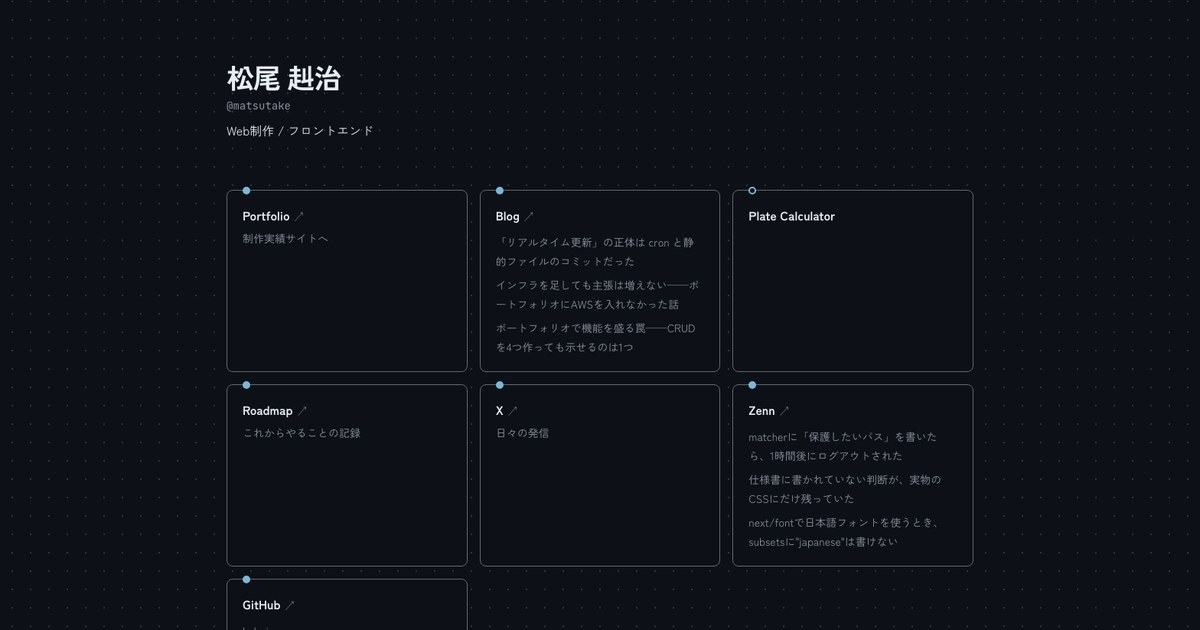
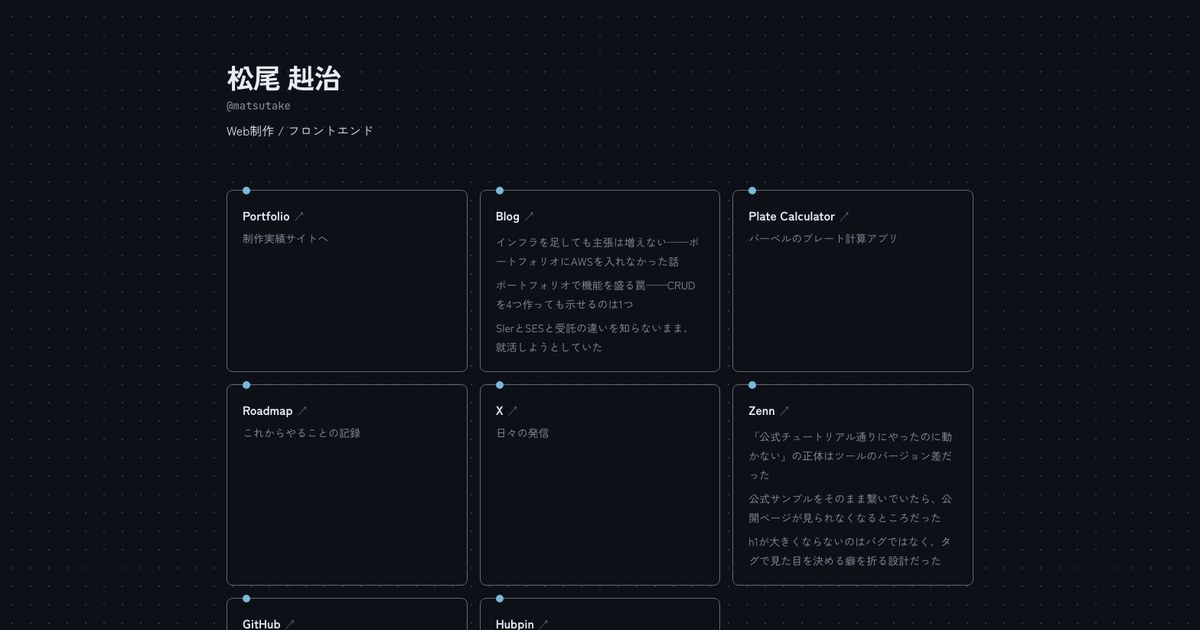
fix(hubpin): 数値を現在値に直し、ヒーローと OGP を8枚版に差し替え
- 読み込むファイル数 28→41、フォント 187kB→290kB（v0.5 の値だった）
- 機能を足したぶん増えていること、削るのは課題として残していることを追記
- X-Frame-Options から撮影で止まるまでは 22日なので「3週間後」に訂正
- Hubpin カード追加後の8枚版でヒーローと OGP を撮り直し

diff --git a/hubpin/index.html b/hubpin/index.html
@@ -95,14 +95,14 @@
     <div class="p-section__body">
       <div class="p-metrics">
         <div class="p-metric">
-          <p class="p-metric__value">28</p>
+          <p class="p-metric__value">41</p>
           <p class="p-metric__label">読み込むファイル数</p>
-          <p class="p-metric__note">手書き版は142個。5分の1になった</p>
+          <p class="p-metric__note">フォントの読み込み方を直して3.5分の1に</p>
         </div>
         <div class="p-metric">
-          <p class="p-metric__value">187 <span>kB</span></p>
+          <p class="p-metric__value">290 <span>kB</span></p>
           <p class="p-metric__label">フォントの通信量</p>
-          <p class="p-metric__note">手書き版は1,539kB。8分の1になった</p>
+          <p class="p-metric__note">1,538kBから5分の1に。必要な字だけ配るようにした</p>
         </div>
         <div class="p-metric">
           <p class="p-metric__value">3 <span>媒体</span></p>
@@ -117,8 +117,10 @@
       </div>
 
       <p class="p-note">
-        上の2つは、手書き版と作り直した版を同じ条件で測った差です。
+        上の2つは、<strong>公開したあとに自分のページを測り直して直した前後の差</strong>です。
         フォントを必要な字だけに絞り、読み込み方を変えたことで、開くまでに流れる通信が減りました。
+        <strong>その後、外部の記事を取り込む機能を足したぶん少し増えていて、削る作業は課題として残してあります。</strong>
+        手書き版とは測定条件を揃えられていないので、比較はしていません。
       </p>
     </div>
   </section>
@@ -209,7 +211,7 @@
           守りたかったのはログイン画面1つです。
         </p>
         <p>
-          <strong>その半月後、この掲載ページ用の画面写真を撮ろうとして、自分がその設定に止められました。</strong>
+          <strong>その3週間後、この掲載ページ用の画面写真を撮ろうとして、自分がその設定に止められました。</strong>
           撮影のために自分のページを埋め込もうとして、拒否されたためです。
           設定を入れたことより、<strong>効いていることが自分で分かったこと</strong>のほうが収穫でした。
         </p>
